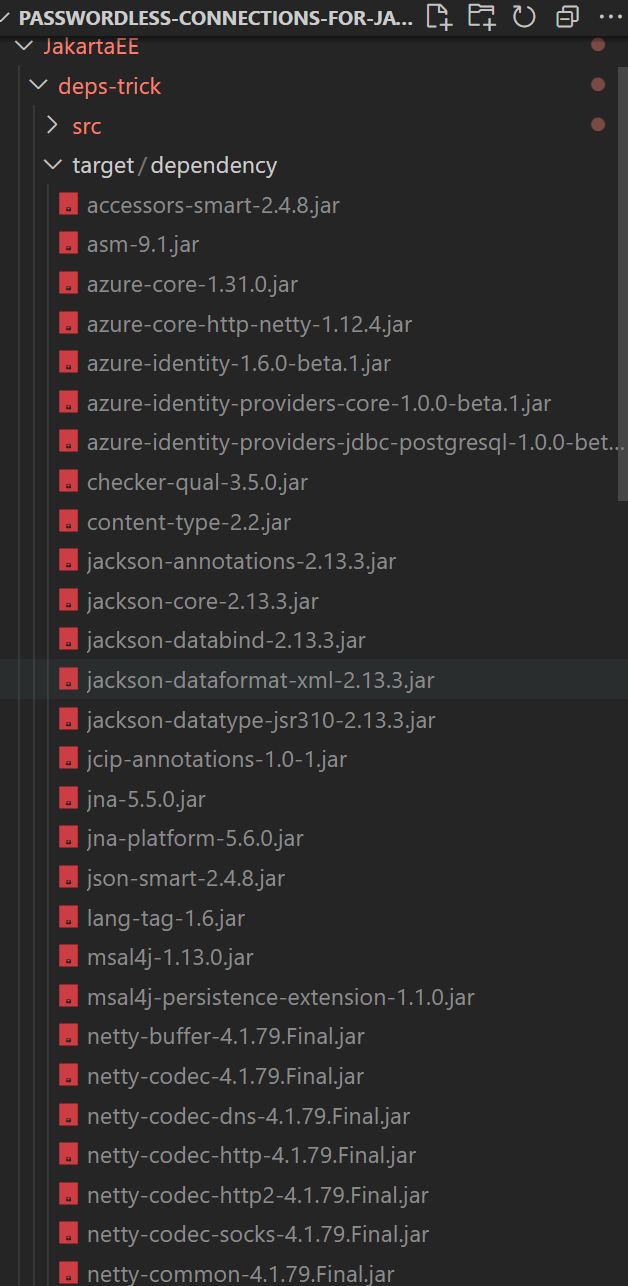
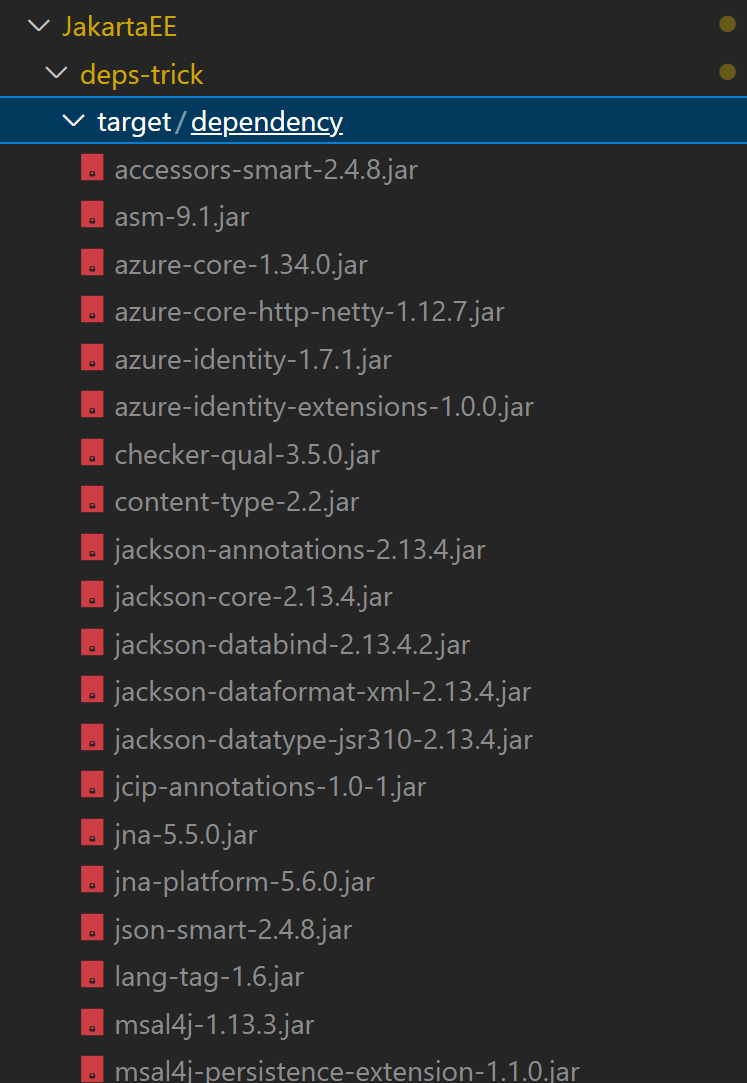
GA azure-identity-extensions

diff --git a/JakartaEE/websphere/README.md b/JakartaEE/websphere/README.md
@@ -215,7 +215,7 @@ az postgres flexible-server firewall-rule delete \
 You can get the connection string by executing the following command:
 
 ```bash
-POSTGRESQL_CONNECTION_URL="jdbc:postgresql://${DATABASE_FQDN}:5432/${DATABASE_NAME}?sslmode=require&authenticationPluginClassName=com.azure.identity.providers.postgresql.AzureIdentityPostgresqlAuthenticationPlugin&azure.clientId=${APPLICATION_IDENTITY_APPID}"
+POSTGRESQL_CONNECTION_URL="jdbc:postgresql://${DATABASE_FQDN}:5432/${DATABASE_NAME}?sslmode=require&authenticationPluginClassName=com.azure.identity.extensions.jdbc.postgresql.AzurePostgresqlAuthenticationPlugin&azure.clientId=${APPLICATION_IDENTITY_APPID}"
 echo "Take note of the JDBC connection url to configure the datasource in websphere server"
 echo "JDBC connection url: $POSTGRESQL_CONNECTION_URL"
 ```
@@ -232,7 +232,7 @@ At this point, it is possible to deploy the required components in WebSphere and
 
 To configure Postgresql JDBC driver and passwordless authentication plugin, it is necessary to download the required libraries and copy them to the WebSphere server. The authentication plugin relies on Azure.Identity libraries, which at the same time depends on other libraries and all these libraries must be copied to the WebSphere server and be configured on the class path of the JDBC provider. This process is error prone, for that reason you may find a special [project](../deps-trick/README.md) in this repository to help you with this task. This is a Maven project that will download the required libraries.
 
-As this sample targets Postgresql, open the [pom-pgsql.xml](../deps-trick/pom-pgsql.xml) and verify that it contains the dependency `com.azure:azure-identity-providers-jdbc-postgresql:1.0.0-beta.1`.
+As this sample targets Postgresql, open the [pom-pgsql.xml](../deps-trick/pom-pgsql.xml) and verify that it contains the dependency `com.azure:azure-identity-extensions:1.0.0`.
 
 ```xml
 <?xml version="1.0" encoding="UTF-8"?>
@@ -250,8 +250,8 @@ As this sample targets Postgresql, open the [pom-pgsql.xml](../deps-trick/pom-pg
   <dependencies>
     <dependency>
       <groupId>com.azure</groupId>
-      <artifactId>azure-identity-providers-jdbc-postgresql</artifactId>
-      <version>1.0.0-beta.1</version>
+      <artifactId>azure-identity-extensions</artifactId>
+      <version>1.0.0</version>
     </dependency>
     <dependency>
       <groupId>org.postgresql</groupId>
@@ -291,7 +291,7 @@ az network nsg rule create --name TCP-22 \
   --source-address-prefixes "*"
 ```
 
-Now yuou can open a ssh session on WebSphere Server VM and run the following commands:
+Now you can open a ssh session on WebSphere Server VM and run the following commands:
 
 ```bash
 mkdir libs
@@ -376,7 +376,9 @@ az network nsg rule delete --name TCP-22 \
 
 #### Configure the Data Source in WebSphere
 
-The following steps will be performed in the WebSphere server administrator portal. It can be accessed on http://<wls-server-address>:7001/console. The address can be found in the Azure portal.
+The following steps will be performed in the WebSphere server administrator portal. It can be accessed on https://<websphere-server-address>:9043/ibm/console. The address can be found in the Azure portal.
+
+> This sample doesn't cover WebSphere in depth, for instance SSL configuration. For that reason, probably you will see an SSL warning when accessing the portal. Just click on _Continue to this website (not recommended)_.
 
 Go to Resources > JDBC > Data Sources, selet the scope specified with values for **Node** and **Server**, and create a new Data Source.
 
@@ -398,7 +400,7 @@ Now it is necessary to configure the properties of the data source. Click on the
 
 ![Data source custom properties](./media/was-ds-postgres-custom-props.png)
 
-Now look for _URL_ property and set `jdbc:postgresql://<your psql host>.postgres.database.azure.com:5432/checklist?sslmode=require&authenticationPluginClassName=com.azure.identity.providers.postgresql.AzureIdentityPostgresqlAuthenticationPlugin&azure.clientId=<your managed identity client id>`, for instance `jdbc:postgresql://thegreatpsql.postgres.database.azure.com:5432/checklist?sslmode=require&authenticationPluginClassName=com.azure.identity.providers.postgresql.AzureIdentityPostgresqlAuthenticationPlugin&azure.clientId=0f8c2e2d-60c8-4b93-8bc0-579f2d8b5a27`.
+Now look for _URL_ property and set `jdbc:postgresql://<your psql host>.postgres.database.azure.com:5432/checklist?sslmode=require&authenticationPluginClassName=com.azure.identity.extensions.jdbc.postgresql.AzurePostgresqlAuthenticationPlugin&azure.clientId=<your managed identity client id>`, for instance `jdbc:postgresql://thegreatpsql.postgres.database.azure.com:5432/checklist?sslmode=require&authenticationPluginClassName=com.azure.identity.extensions.jdbc.postgresql.AzurePostgresqlAuthenticationPlugin&azure.clientId=0f8c2e2d-60c8-4b93-8bc0-579f2d8b5a27`.
 
 ![Data source URL](./media/was-ds-postgres-props-url.png)
 

diff --git a/JakartaEE/weblogic/README.md b/JakartaEE/weblogic/README.md
@@ -238,7 +238,7 @@ As this is an error prone process due to the amount of dependencies of the authe
 
 #### Prepare the libraries
 
-In this repository you may find a special [project](../deps-trick/README.md) that can be used just to prepare the libraries. It is a Maven project that will download the required libraries. To use it open the pom.xml file and verify it contains the dependency `com.azure:azure-identity-providers-jdbc-mysql:1.0.0-beta.1` and mysql driver dependency.
+In this repository you may find a special [project](../deps-trick/README.md) that can be used just to prepare the libraries. It is a Maven project that will download the required libraries. To use it open the pom.xml file and verify it contains the dependency `com.azure:azure-identity-extensions:1.0.0` and mysql driver dependency.
 
 ```xml
 <?xml version="1.0" encoding="UTF-8"?>
@@ -256,8 +256,8 @@ In this repository you may find a special [project](../deps-trick/README.md) tha
   <dependencies>
     <dependency>
       <groupId>com.azure</groupId>
-      <artifactId>azure-identity-providers-jdbc-mysql</artifactId>
-      <version>1.0.0-beta.1</version>
+      <artifactId>azure-identity-extensions</artifactId>
+      <version>1.0.0</version>
     </dependency>    
     <dependency>
       <groupId>mysql</groupId>
@@ -402,7 +402,7 @@ Then in the connection properties, set the database and hostname created previou
 In the last screen, it is necessary to specify some additional parameters on the JDBC url. It should look like this:
 
 ```
-jdbc:mysql://<mysqlhostname>.mysql.database.azure.com:3306/checklist?useSSL=true&requireSSL=true&defaultAuthenticationPlugin=com.azure.identity.providers.mysql.AzureIdentityMysqlAuthenticationPlugin&authenticationPlugins=com.azure.identity.providers.mysql.AzureIdentityMysqlAuthenticationPlugin&azure.clientId=<ManagedIdentityClientId>
+jdbc:mysql://<mysqlhostname>.mysql.database.azure.com:3306/checklist?useSSL=true&requireSSL=true&defaultAuthenticationPlugin=com.azure.identity.extensions.jdbc.mysql.AzureMysqlAuthenticationPlugin&authenticationPlugins=com.azure.identity.extensions.jdbc.mysql.AzureMysqlAuthenticationPlugin&azure.clientId=<ManagedIdentityClientId>
 ```
 
 * useSSL and requireSSL are set to true. When using Azure AD authentication, the password sent is an OAuth access token. The token is sent just an encoded string that can be easily decoded. For that reason, it is necessary to enforce the use of SSL.

diff --git a/JakartaEE/jboss-eap/README.md b/JakartaEE/jboss-eap/README.md
@@ -31,7 +31,7 @@ MYSQL_HOST=[your mysql server name]
 DATABASE_NAME=checklist
 DATABASE_FQDN=${MYSQL_HOST}.mysql.database.azure.com
 # Note that the connection url includes the password-free authentication plugin
-MYSQL_CONNECTION_URL="jdbc:mysql://${DATABASE_FQDN}:3306/${DATABASE_NAME}?useSSL=true&requireSSL=true&defaultAuthenticationPlugin=com.azure.identity.providers.mysql.AzureIdentityMysqlAuthenticationPlugin&authenticationPlugins=com.azure.identity.providers.mysql.AzureIdentityMysqlAuthenticationPlugin"
+MYSQL_CONNECTION_URL="jdbc:mysql://${DATABASE_FQDN}:3306/${DATABASE_NAME}?useSSL=true&requireSSL=true&defaultAuthenticationPlugin=com.azure.identity.extensions.jdbc.mysql.AzureMysqlAuthenticationPlugin&authenticationPlugins=com.azure.identity.extensions.jdbc.mysql.AzureMysqlAuthenticationPlugin"
 APPSERVICE_NAME=[your app service name]
 APPSERVICE_PLAN=[your app service plan name]
 APP_IDENTITY_NAME=identity-jboss-passwordless
@@ -151,7 +151,7 @@ The application, as it will be explained later in this README, consists of a WAR
 # Get the connection string generated by the service connector
 PASSWORDLESS_URL=$(az webapp config appsettings list --resource-group $RESOURCE_GROUP --name $APPSERVICE_NAME | jq -c '.[] | select ( .name == "AZURE_MYSQL_CONNECTIONSTRING" ) | .value' | sed 's/"//g')
 # Create a new environment variable with the connection string including the passwordless authentication plugin
-PASSWORDLESS_URL=${PASSWORDLESS_URL}'&defaultAuthenticationPlugin=com.azure.identity.providers.mysql.AzureIdentityMysqlAuthenticationPlugin&authenticationPlugins=com.azure.identity.providers.mysql.AzureIdentityMysqlAuthenticationPlugin'
+PASSWORDLESS_URL=${PASSWORDLESS_URL}'&defaultAuthenticationPlugin=com.azure.identity.extensions.jdbc.mysql.AzureMysqlAuthenticationPlugin&authenticationPlugins=com.azure.identity.extensions.jdbc.mysql.AzureMysqlAuthenticationPlugin'
 az webapp config appsettings set --resource-group $RESOURCE_GROUP --name $APPSERVICE_NAME --settings "AZURE_MYSQL_CONNECTIONSTRING_PASSWORDLESS=${PASSWORDLESS_URL}"
 ```
 
@@ -224,8 +224,8 @@ we added a dependency for MySQL JDBC driver as follows on `pom.xml`. If MySQL pr
 ```xml
 <dependency>
     <groupId>com.azure</groupId>
-    <artifactId>azure-identity-providers-jdbc-mysql</artifactId>
-    <version>1.0.0-beta.1</version>  
+     <artifactId>azure-identity-extensions</artifactId>
+     <version>1.0.0</version>
 </dependency>
 ```
 

diff --git a/Tomcat/README.md b/Tomcat/README.md
@@ -37,7 +37,7 @@ APPSERVICE_NAME=[YOUR APPLICATION NAME]
 APPSERVICE_PLAN=[YOUR APPLICATION PLAN NAME]
 LOCATION=[YOUR PREFERRED LOCATON]
 DATABASE_FQDN=${POSTGRESQL_HOST}.postgres.database.azure.com
-PSQL_CONNECTION_URL="jdbc:postgresql://${DATABASE_FQDN}:5432/${DATABASE_NAME}?sslmode=require&authenticationPluginClassName=com.azure.identity.providers.postgresql.AzureIdentityPostgresqlAuthenticationPlugin"
+PSQL_CONNECTION_URL="jdbc:postgresql://${DATABASE_FQDN}:5432/${DATABASE_NAME}?sslmode=require&authenticationPluginClassName=com.azure.identity.extensions.jdbc.postgresql.AzurePostgresqlAuthenticationPlugin"
 ```
 
 ### login to your subscription
@@ -126,7 +126,7 @@ As part of the configuration, the service connector defines a environment variab
 
 ```bash
 # Set connection url environment variables. It is necessary to pass it on CATALINA_OPTS environment variable
-az webapp config appsettings set --resource-group $RESOURCE_GROUP --name $APPSERVICE_NAME --settings 'CATALINA_OPTS=-DdbUrl="${AZURE_POSTGRESQL_CONNECTIONSTRING}&authenticationPluginClassName=com.azure.identity.providers.postgresql.AzureIdentityPostgresqlAuthenticationPlugin"'
+az webapp config appsettings set --resource-group $RESOURCE_GROUP --name $APPSERVICE_NAME --settings 'CATALINA_OPTS=-DdbUrl="${AZURE_POSTGRESQL_CONNECTIONSTRING}&authenticationPluginClassName=com.azure.identity.extensions.jdbc.postgresql.AzurePostgresqlAuthenticationPlugin"'
 ```
 
 Be mindful of escape quotes in the command above. The single quote are required to do not replace $AZURE_POSTGRESQL_CONNECTIONSTRING with the value of the environment variable in the local CLI. During runtime that variable will be replace with the existing value in the App Service.

diff --git a/Tomcat/README_CODE.md b/Tomcat/README_CODE.md
@@ -29,8 +29,8 @@ A dependency for Postgres JDBC driver as follows on `pom.xml`. If Postgres provi
 ```xml
 <dependency>
     <groupId>com.azure</groupId>
-    <artifactId>azure-identity-providers-jdbc-postgresql</artifactId>
-    <version>1.0.0-beta.1</version>
+    <artifactId>azure-identity-extensions</artifactId>
+    <version>1.0.0</version>
 </dependency>
 ```
 
